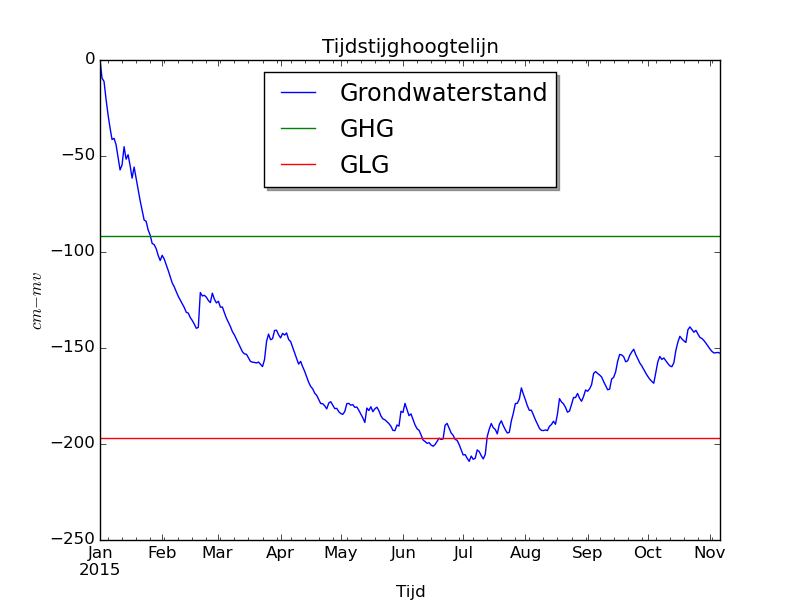
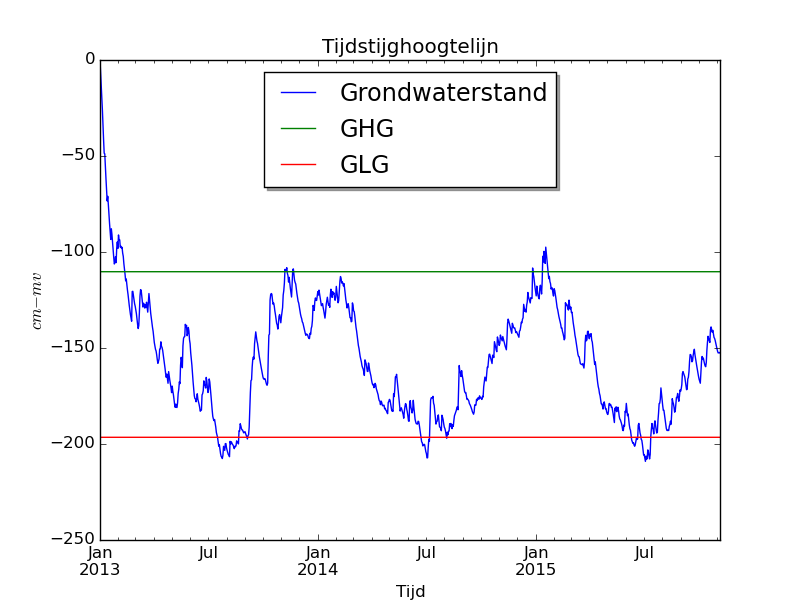
update webapp ftm, removed useless comments, calculations based on data from the database are now possible

diff --git a/templates/ftm/index.html b/templates/ftm/index.html
@@ -19,7 +19,7 @@
    function bereken_sql() {
       var y = document.getElementById("latbox").value;
       var x = document.getElementById("lngbox").value;
-      url = 'grondwaterstand-sql?x=' + x + '&y=' + y;
+      url = 'grondwaterstand-sql?x=' + x + '&y=' + y + '&startdatum=2015-01-01' + '&einddatum=2015-11-08';
       window.open(url);
    }
 </script>

diff --git a/FTM_module.py b/FTM_module.py
@@ -22,7 +22,7 @@ from sql_lezer import meteo_query
 
 
 
-def maak_plotje2(x2, y2):
+def maak_plotje2(x2, y2, startdatum, einddatum):
     nummer_meteostation = 310
     bestandspad='/home/john/ftm/ftm/ftm/data/'
     bestandspad_plot='/home/john/ftm/ftm/ftm/static/'
@@ -30,8 +30,8 @@ def maak_plotje2(x2, y2):
     x= str(x2)
     y= str(y2)
     
-    startdatum = '2015-01-01'
-    einddatum = '2015-11-08'
+    startdatum = str(startdatum) #'2015-01-01'
+    einddatum = str(einddatum)#'2015-11-08'
 
     ###################################################################
     #hier begint dan het programma

diff --git a/views.py b/views.py
@@ -63,7 +63,9 @@ def ftmsql(request):
     'Grondwaterstand-sql'
     x = request.GET.get('x')
     y = request.GET.get('y')
-    data = maak_plotje2(x, y)
+    startdatum = request.GET.get('startdatum')
+    einddatum = request.GET.get('einddatum')
+    data = maak_plotje2(x, y, startdatum, einddatum)
     plotje = data[0]
     datum_array = data [1]
     array_neerslag = data[2]
